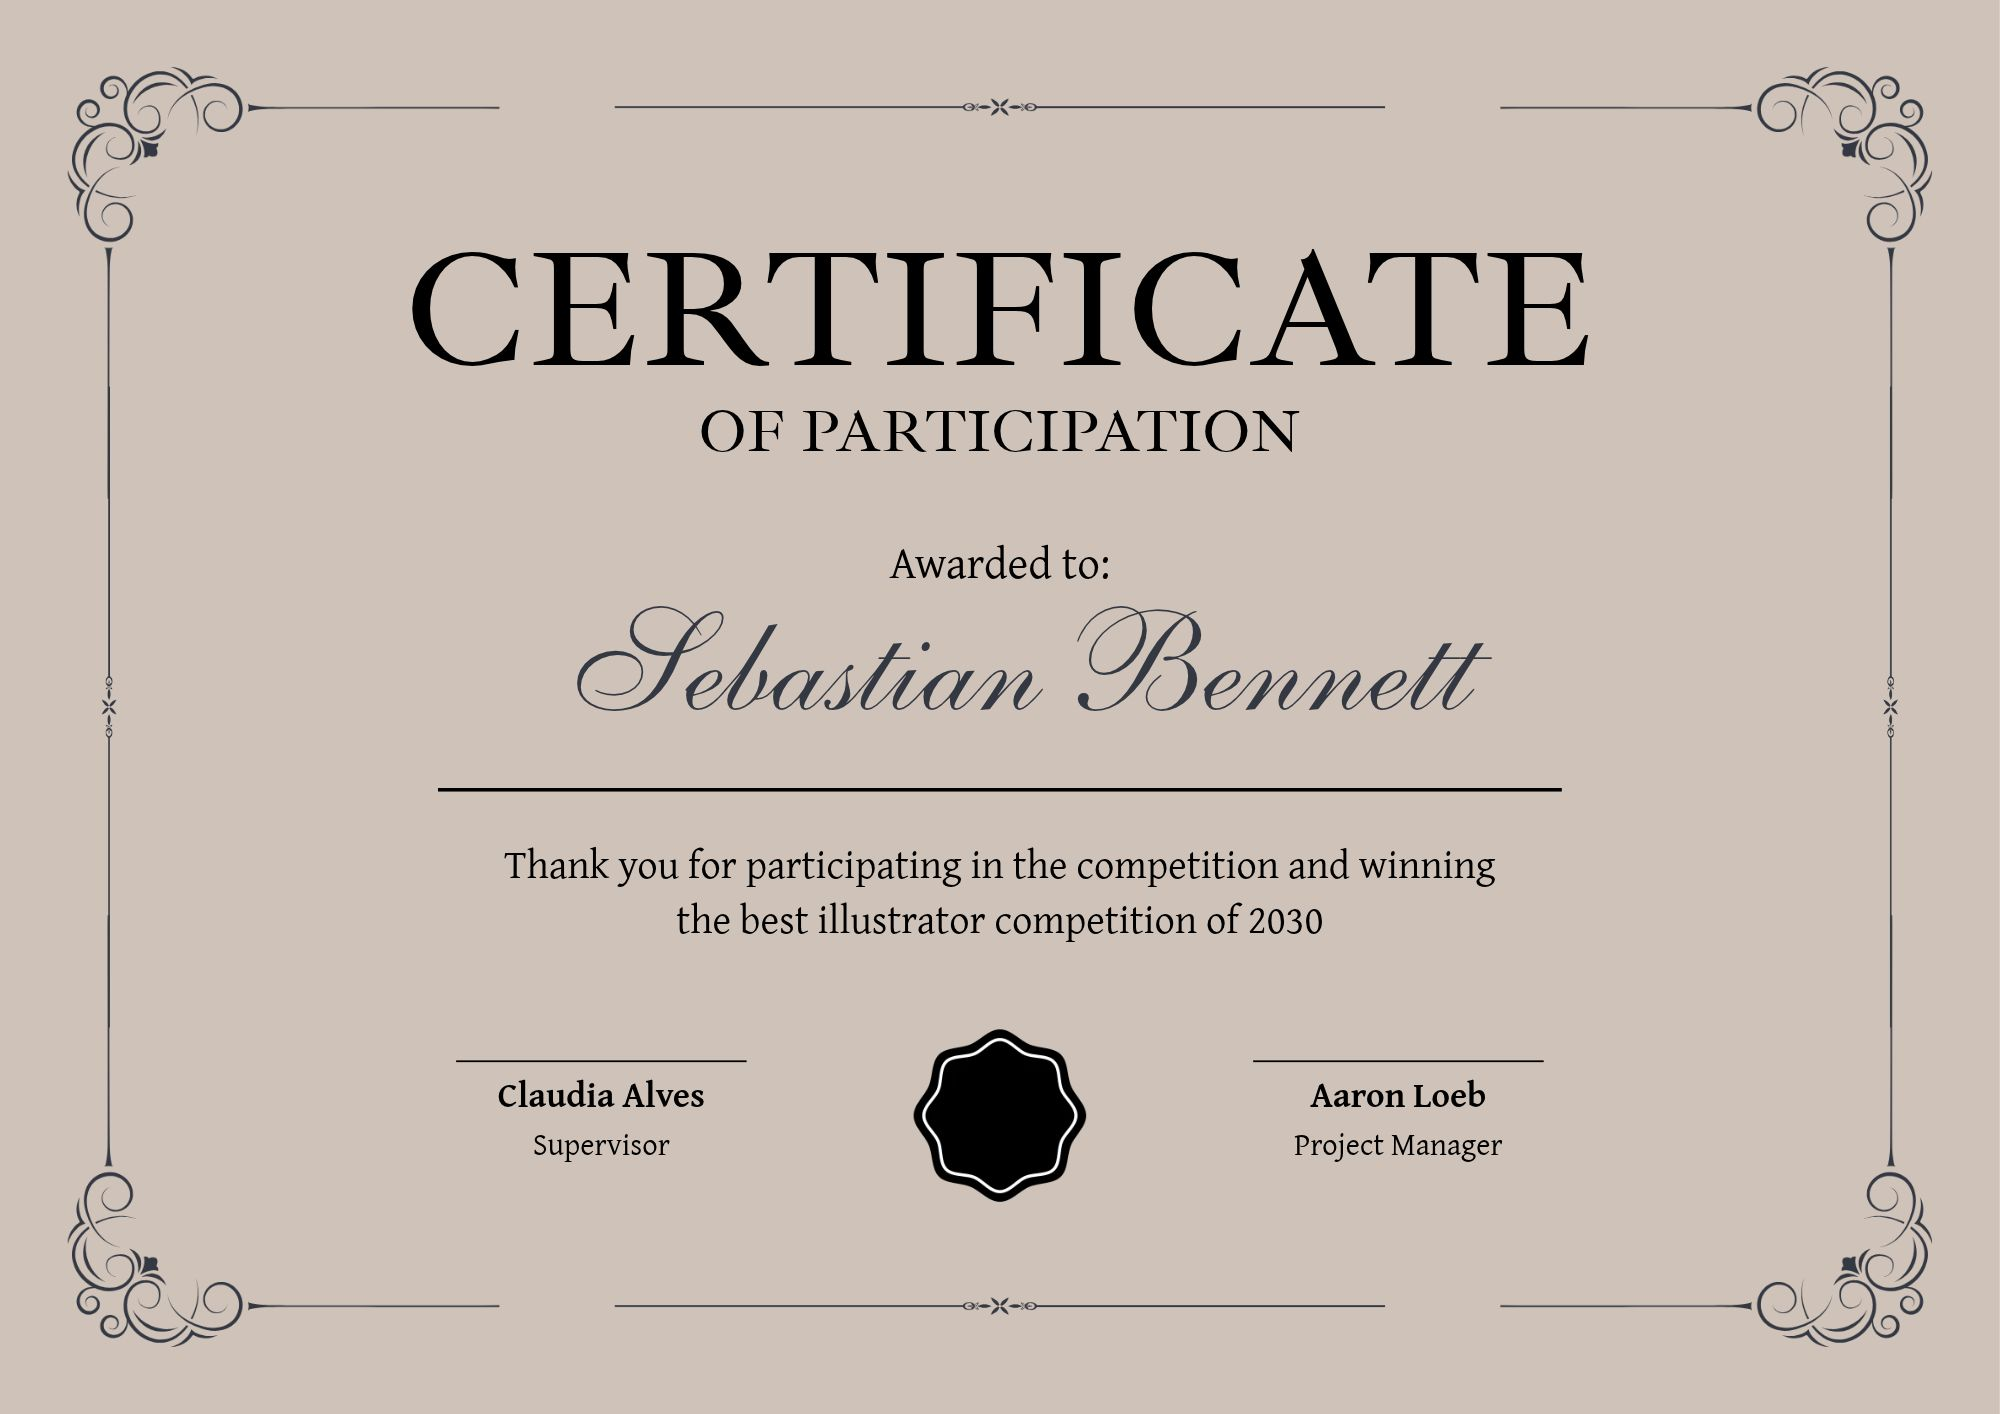
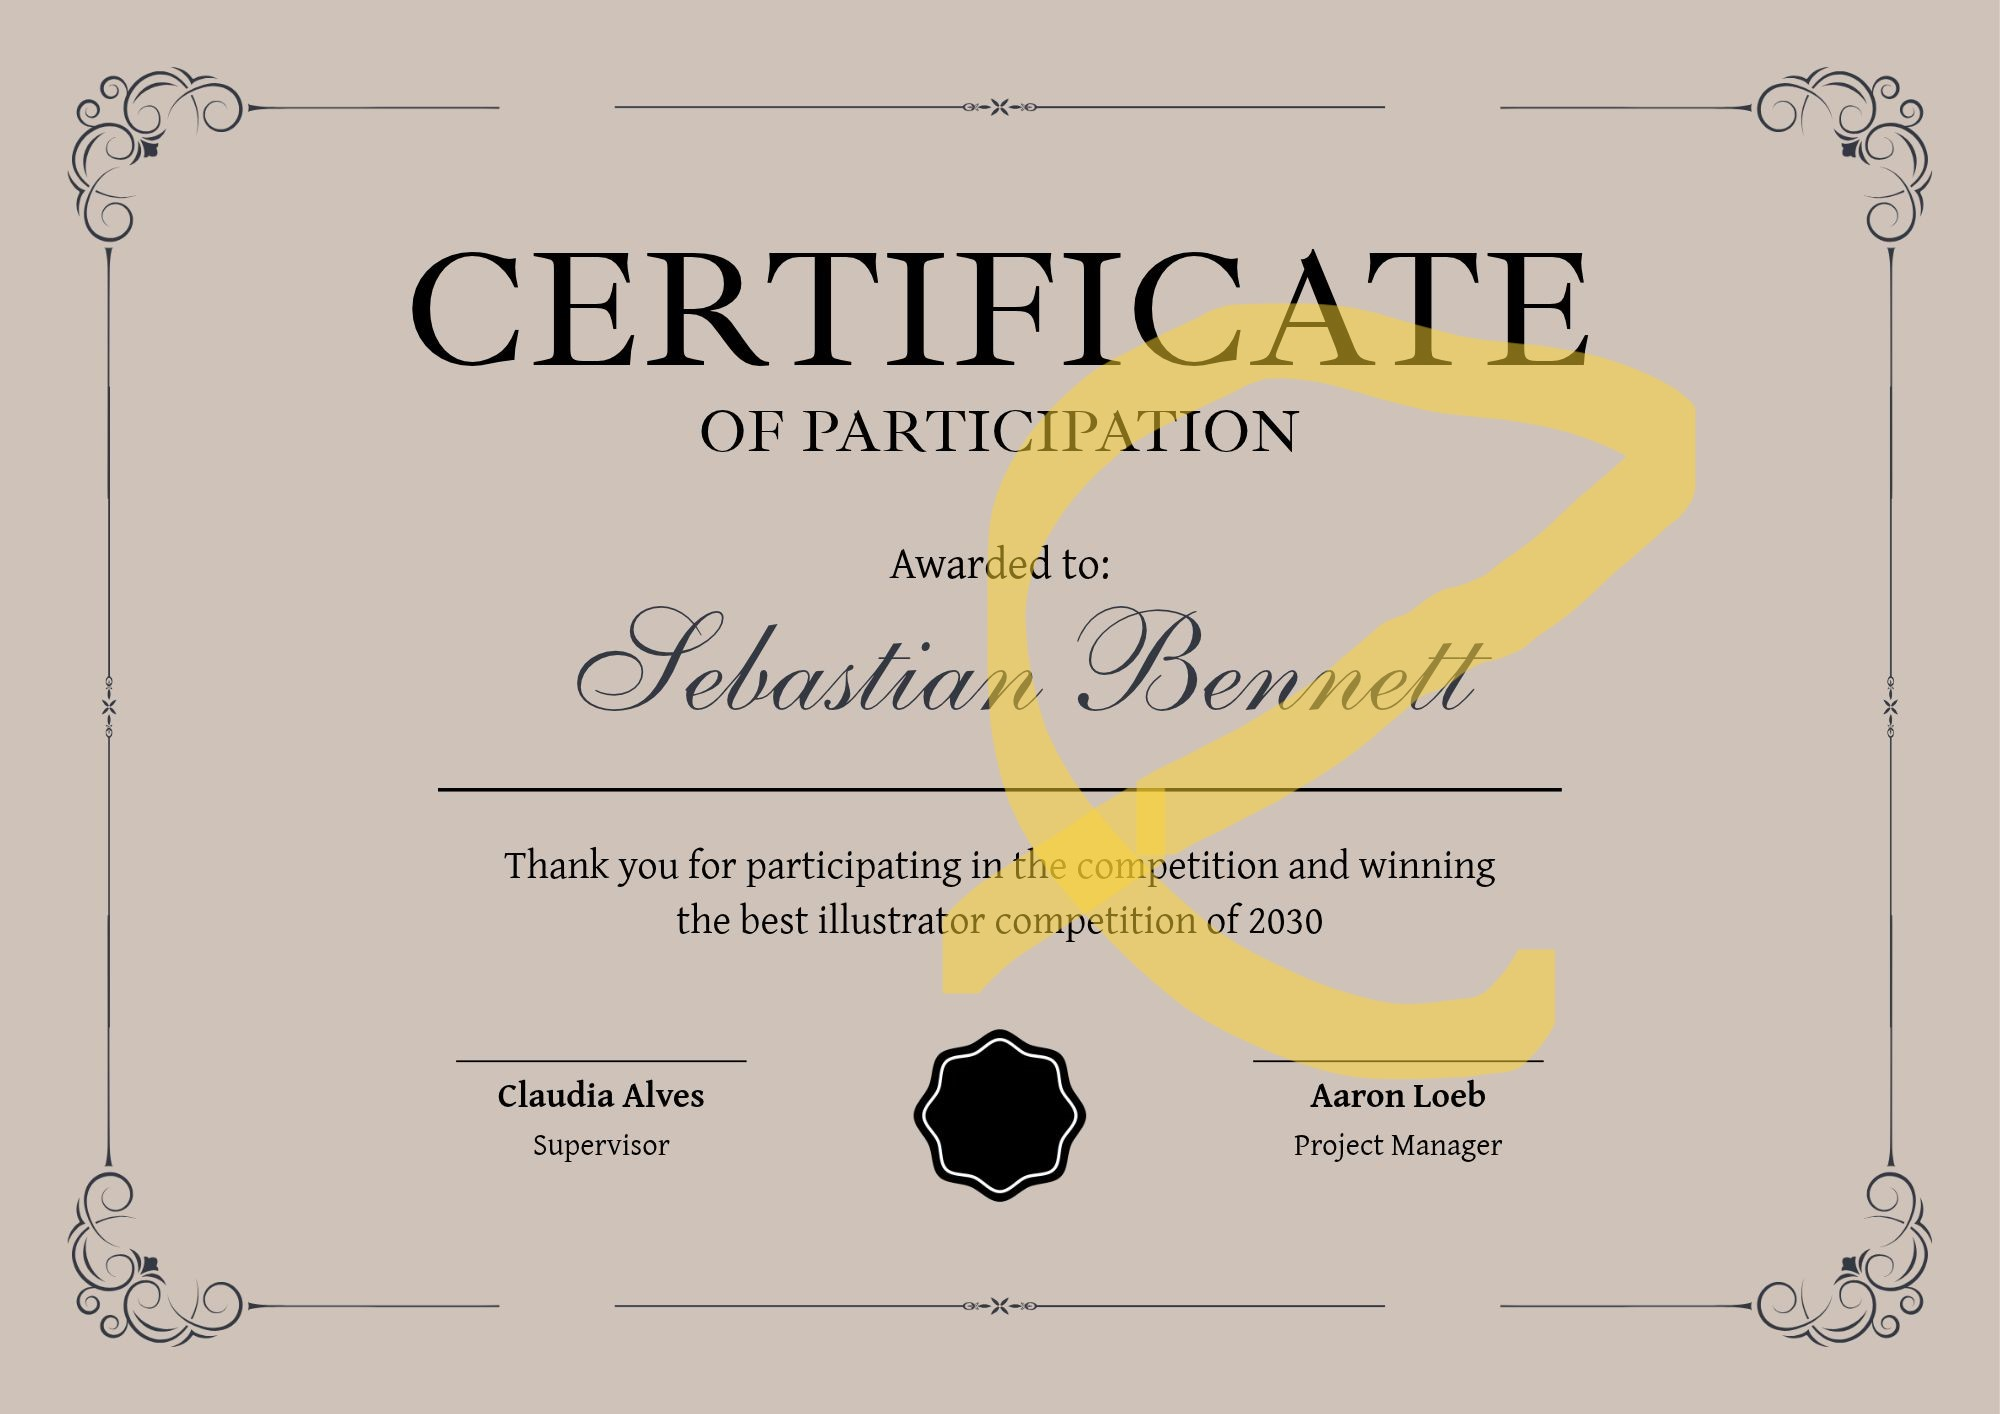
Final demo state

Changed region(s): [[0.465, 0.1867, 0.868, 0.7779]]

diff --git a/backend/main.py b/backend/main.py
@@ -1,9 +1,12 @@
 import hashlib
 import io
 import json
+import os
 import sqlite3
+import tempfile
 import uuid
 from datetime import datetime, timezone
+from pathlib import Path
 from typing import Literal
 from xml.sax.saxutils import escape
 
@@ -21,6 +24,8 @@ from backend.ai_detection import analyze_image as ai_checks
 from backend.branding import BRAND_NAME, LOGO_PATH, TAGLINE, draw_pdf_page, logo_exists
 from backend.certificate_page import router as certificate_page_router
 from backend.verification_requests import router as verification_requests_router
+from forensics.ela_check import check_ela
+from forensics.metadata_check import check_metadata
 
 app = FastAPI()
 app.add_middleware(
@@ -143,6 +148,30 @@ def save_report(filename, sha256, result, summary, checks):
     return reference
 
 
+def forensic_checks(data, filename):
+    """Runs the forensics checks (metadata, ELA). They need a file path, so the
+    upload is saved to a temporary file and deleted afterwards."""
+    suffix = Path(filename or "").suffix
+    if not suffix.lstrip(".").isalnum() or len(suffix) > 10:
+        suffix = ".bin"
+    fd, path = tempfile.mkstemp(suffix=suffix)
+    try:
+        with os.fdopen(fd, "wb") as f:
+            f.write(data)
+        return [check_metadata(path), check_ela(path)]
+    except Exception:
+        return [{
+            "name": "Forensics",
+            "status": "unverified",
+            "detail": "Forensic checks could not be run on this file.",
+        }]
+    finally:
+        try:
+            os.remove(path)
+        except OSError:
+            pass
+
+
 @app.get("/")
 def root():
     return {"message": "Digital DNA backend is alive"}
@@ -211,9 +240,9 @@ async def verify(file: UploadFile = File(...)):
             "detail": "No matching registration exists.",
         }
 
-    # Each module adds its own checks to this list. Forensics (ELA, metadata)
-    # will be added here later in the same format.
-    checks = [check] + ai_checks(data)
+    # Each module adds its own checks to this list, in the same format:
+    # source verification, AI detection, then forensics (metadata, ELA).
+    checks = [check] + ai_checks(data) + forensic_checks(data, file.filename)
 
     if result != "Verified Source":
         ai_fail = any(

diff --git a/calibrate.py b/calibrate.py
@@ -1,0 +1,11 @@
+from PIL import Image
+from forensics.ela_check import ela_ratio
+
+for name in ["Genuine.jpg", "Edited.jpg"]:
+    path = "forensics/" + name
+    with Image.open(path) as img:
+        q = img.quantization[0][:4] if hasattr(img, "quantization") else None
+        print(name, "size", img.size, "quant table start", q)
+    for quality in (95, 85, 75, 65, 50):
+        ratio, top, median = ela_ratio(path, quality=quality)
+        print("  q=%d ratio=%.2f top=%.2f median=%.2f" % (quality, ratio, top, median))
